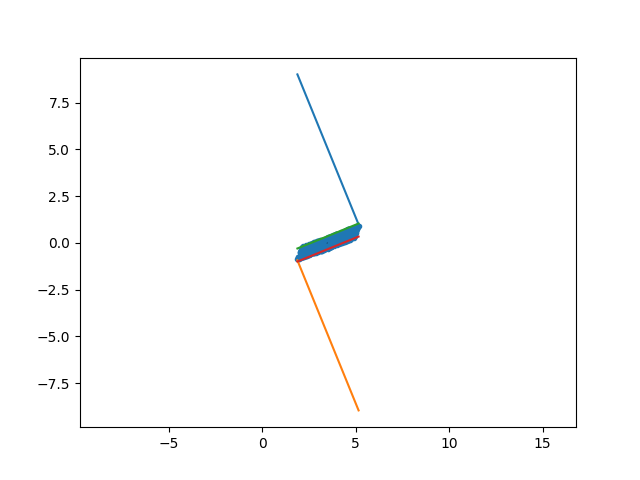
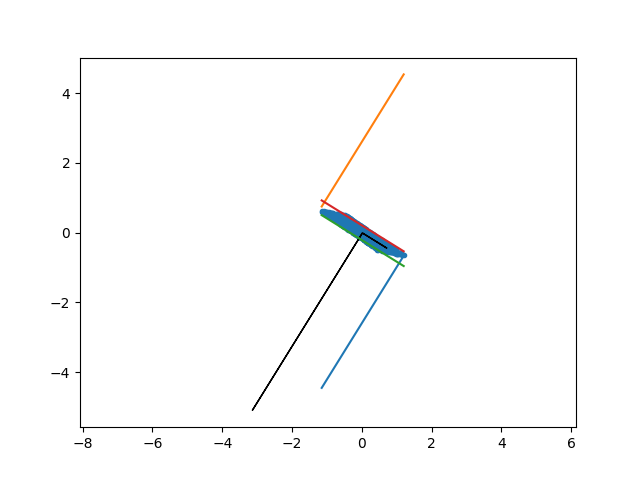
worst lower bound heuristic

diff --git a/run.py b/run.py
@@ -12,8 +12,9 @@ torch.set_printoptions(precision=8)
 
 def main():
 
-    eps = .03
+    eps = .05
     verbose = 0
+    scoreFunction = 'worstLowerBound'
     virtualBranching = False
     numberOfVirtualBranches = 4
     maxSearchDepthLipschitzBound = 10
@@ -43,8 +44,8 @@ def main():
     # fileName = "randomNetwork2.pth"
     # fileName = "randomNetwork3.pth"
     # fileName = "trainedNetwork1.pth"
-    fileName = "doubleIntegrator.pth"
-    # fileName = "RobotArmStateDict2-5-2.pth"
+    # fileName = "doubleIntegrator.pth"
+    fileName = "RobotArmStateDict2-5-2.pth"
     # fileName = "Test3-5-3.pth"
     # fileName = "ACASXU.pth"
     # fileName = "mnist_3_50.pth"
@@ -73,10 +74,10 @@ def main():
     outputDim = network.Linear[-1].weight.shape[0]
     network.to(device)
     # The intial HyperRectangule
-    # lowerCoordinate = torch.Tensor([-1., -1.]).to(device)
-    # upperCoordinate = torch.Tensor([1., 1.]).to(device)
-    lowerCoordinate = torch.Tensor([1., 1.5]).to(device)
-    upperCoordinate = torch.Tensor([2., 2.5]).to(device)
+    lowerCoordinate = torch.Tensor([-1., -1.]).to(device)
+    upperCoordinate = torch.Tensor([1., 1.]).to(device)
+    # lowerCoordinate = torch.Tensor([1., 1.5]).to(device)
+    # upperCoordinate = torch.Tensor([2., 2.5]).to(device)
 
     # lowerCoordinate = torch.Tensor([torch.pi / 3, torch.pi / 3, torch.pi / 3]).to(device)
     # upperCoordinate = torch.Tensor([2 * torch.pi / 3, 2 * torch.pi / 3, 2 * torch.pi / 3]).to(device)
@@ -147,7 +148,7 @@ def main():
 
             BB = BranchAndBound(upperCoordinate, lowerCoordinate, verbose=verbose, inputDimension=dim, eps=eps, network=network,
                                 queryCoefficient=c, device=device, nodeBranchingFactor=2, branchNodeNum=512,
-                                scoreFunction='length',
+                                scoreFunction=scoreFunction,
                                 pgdIterNum=0, pgdNumberOfInitializations=2, pgdStepSize=0.5, virtualBranching=virtualBranching,
                                 numberOfVirtualBranches=numberOfVirtualBranches,
                                 maxSearchDepthLipschitzBound=maxSearchDepthLipschitzBound,

diff --git a/BranchAndBound.py b/BranchAndBound.py
@@ -185,6 +185,8 @@ class BranchAndBound:
             plotter = Plotter()
 
         self.bound([0], self.bestUpperBound, self.bestLowerBound)
+        if self.scoreFunction == "worstLowerBound" or self.scoreFunction == "bestLowerBound":
+            self.spaceNodes[0].calc_score()
         while self.bestUpperBound - self.bestLowerBound >= self.eps:
             print(len(self.spaceNodes))
             # for i in range(len(self.spaceNodes)):
@@ -202,6 +204,19 @@ class BranchAndBound:
             self.timers.pause("branch")
 
             self.bound(indices, deletedUb, deletedLb)
+
+            if self.scoreFunction == "worstLowerBound" or self.scoreFunction == "bestLowerBound":
+                minimumIndex = len(self.spaceNodes) - self.branchNodeNum * self.nodeBranchingFactor
+                if minimumIndex < 0:
+                    minimumIndex = 0
+                # minimumIndex = 0
+                maximumIndex = len(self.spaceNodes)
+                for i in range(minimumIndex, maximumIndex):
+                    self.spaceNodes[i].score = self.spaceNodes[i].calc_score()
+
+                    # print(self.spaceNodes[i].lower)
+
+
             self.timers.start("bestBound")
 
             # TODO: make this better by keeping the previous one.

diff --git a/BranchAndBoundNode.py b/BranchAndBoundNode.py
@@ -9,7 +9,7 @@ class BB_node:
         self.coordUpper = coordUp
         self.coordLower = coordLow
         self.scoreFunction = scoreFunction
-
+        self.score = None
         self.score = self.calc_score()
     
     def calc_score(self):
@@ -24,6 +24,10 @@ class BB_node:
 
         elif self.scoreFunction == 'condNum':
             return torch.max(dilation) / torch.min(dilation)
+        elif self.scoreFunction == "worstLowerBound":
+            return -self.lower
+        elif self.scoreFunction == "bestLowerBound":
+            return self.lower
 
     def __repr__(self):
         return str(self.coordLower) + ' ≤ ' + str(self.coordUpper)

diff --git a/nn_mpc_generate_data.m b/nn_mpc_generate_data.m
@@ -3,6 +3,7 @@ clc;
 clear all;
 close all;
 set(0,'DefaultFigureWindowStyle','docked')
+dt = 0.1;
 
 g = 9.8;
 A = [zeros(3, 3), eye(3);
@@ -11,6 +12,9 @@ B = [zeros(3, 3)
     g 0 0
     0 -g 0
     0 0 1];
+
+A = eye(6) + dt * A;
+B = dt * B;
 
 nx = size(A, 1); nu = size(B, 2);
 
